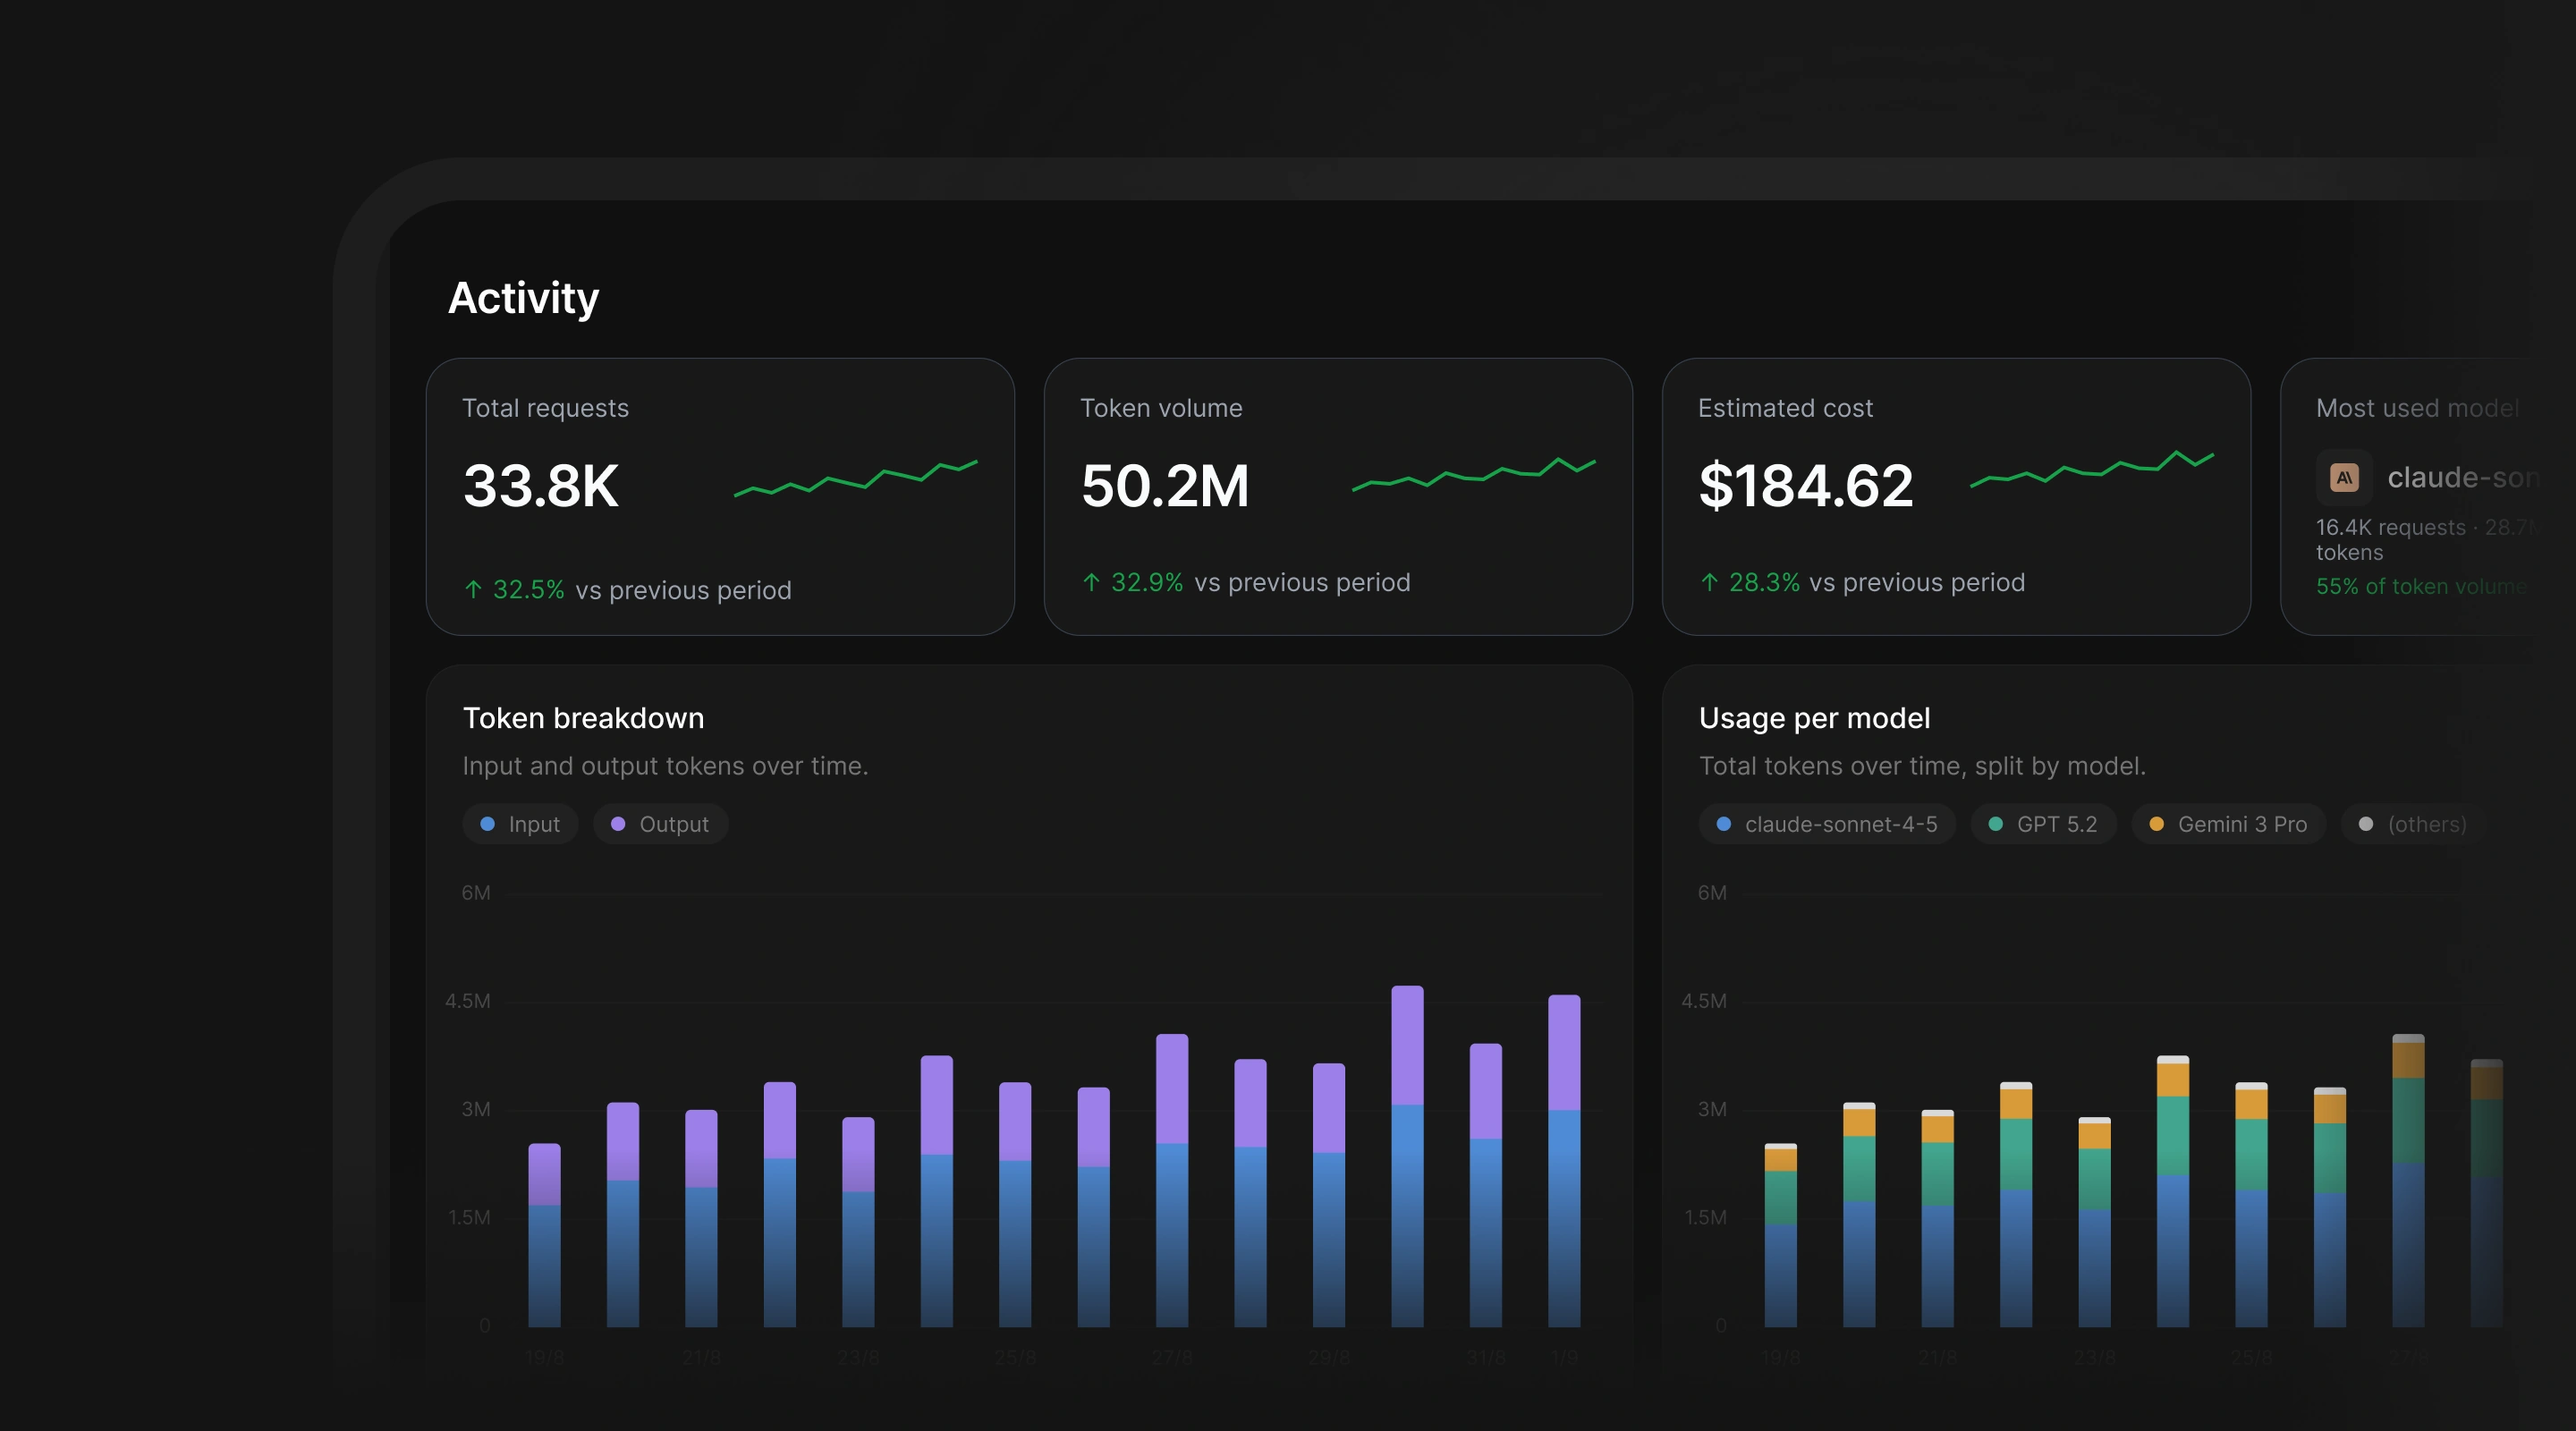
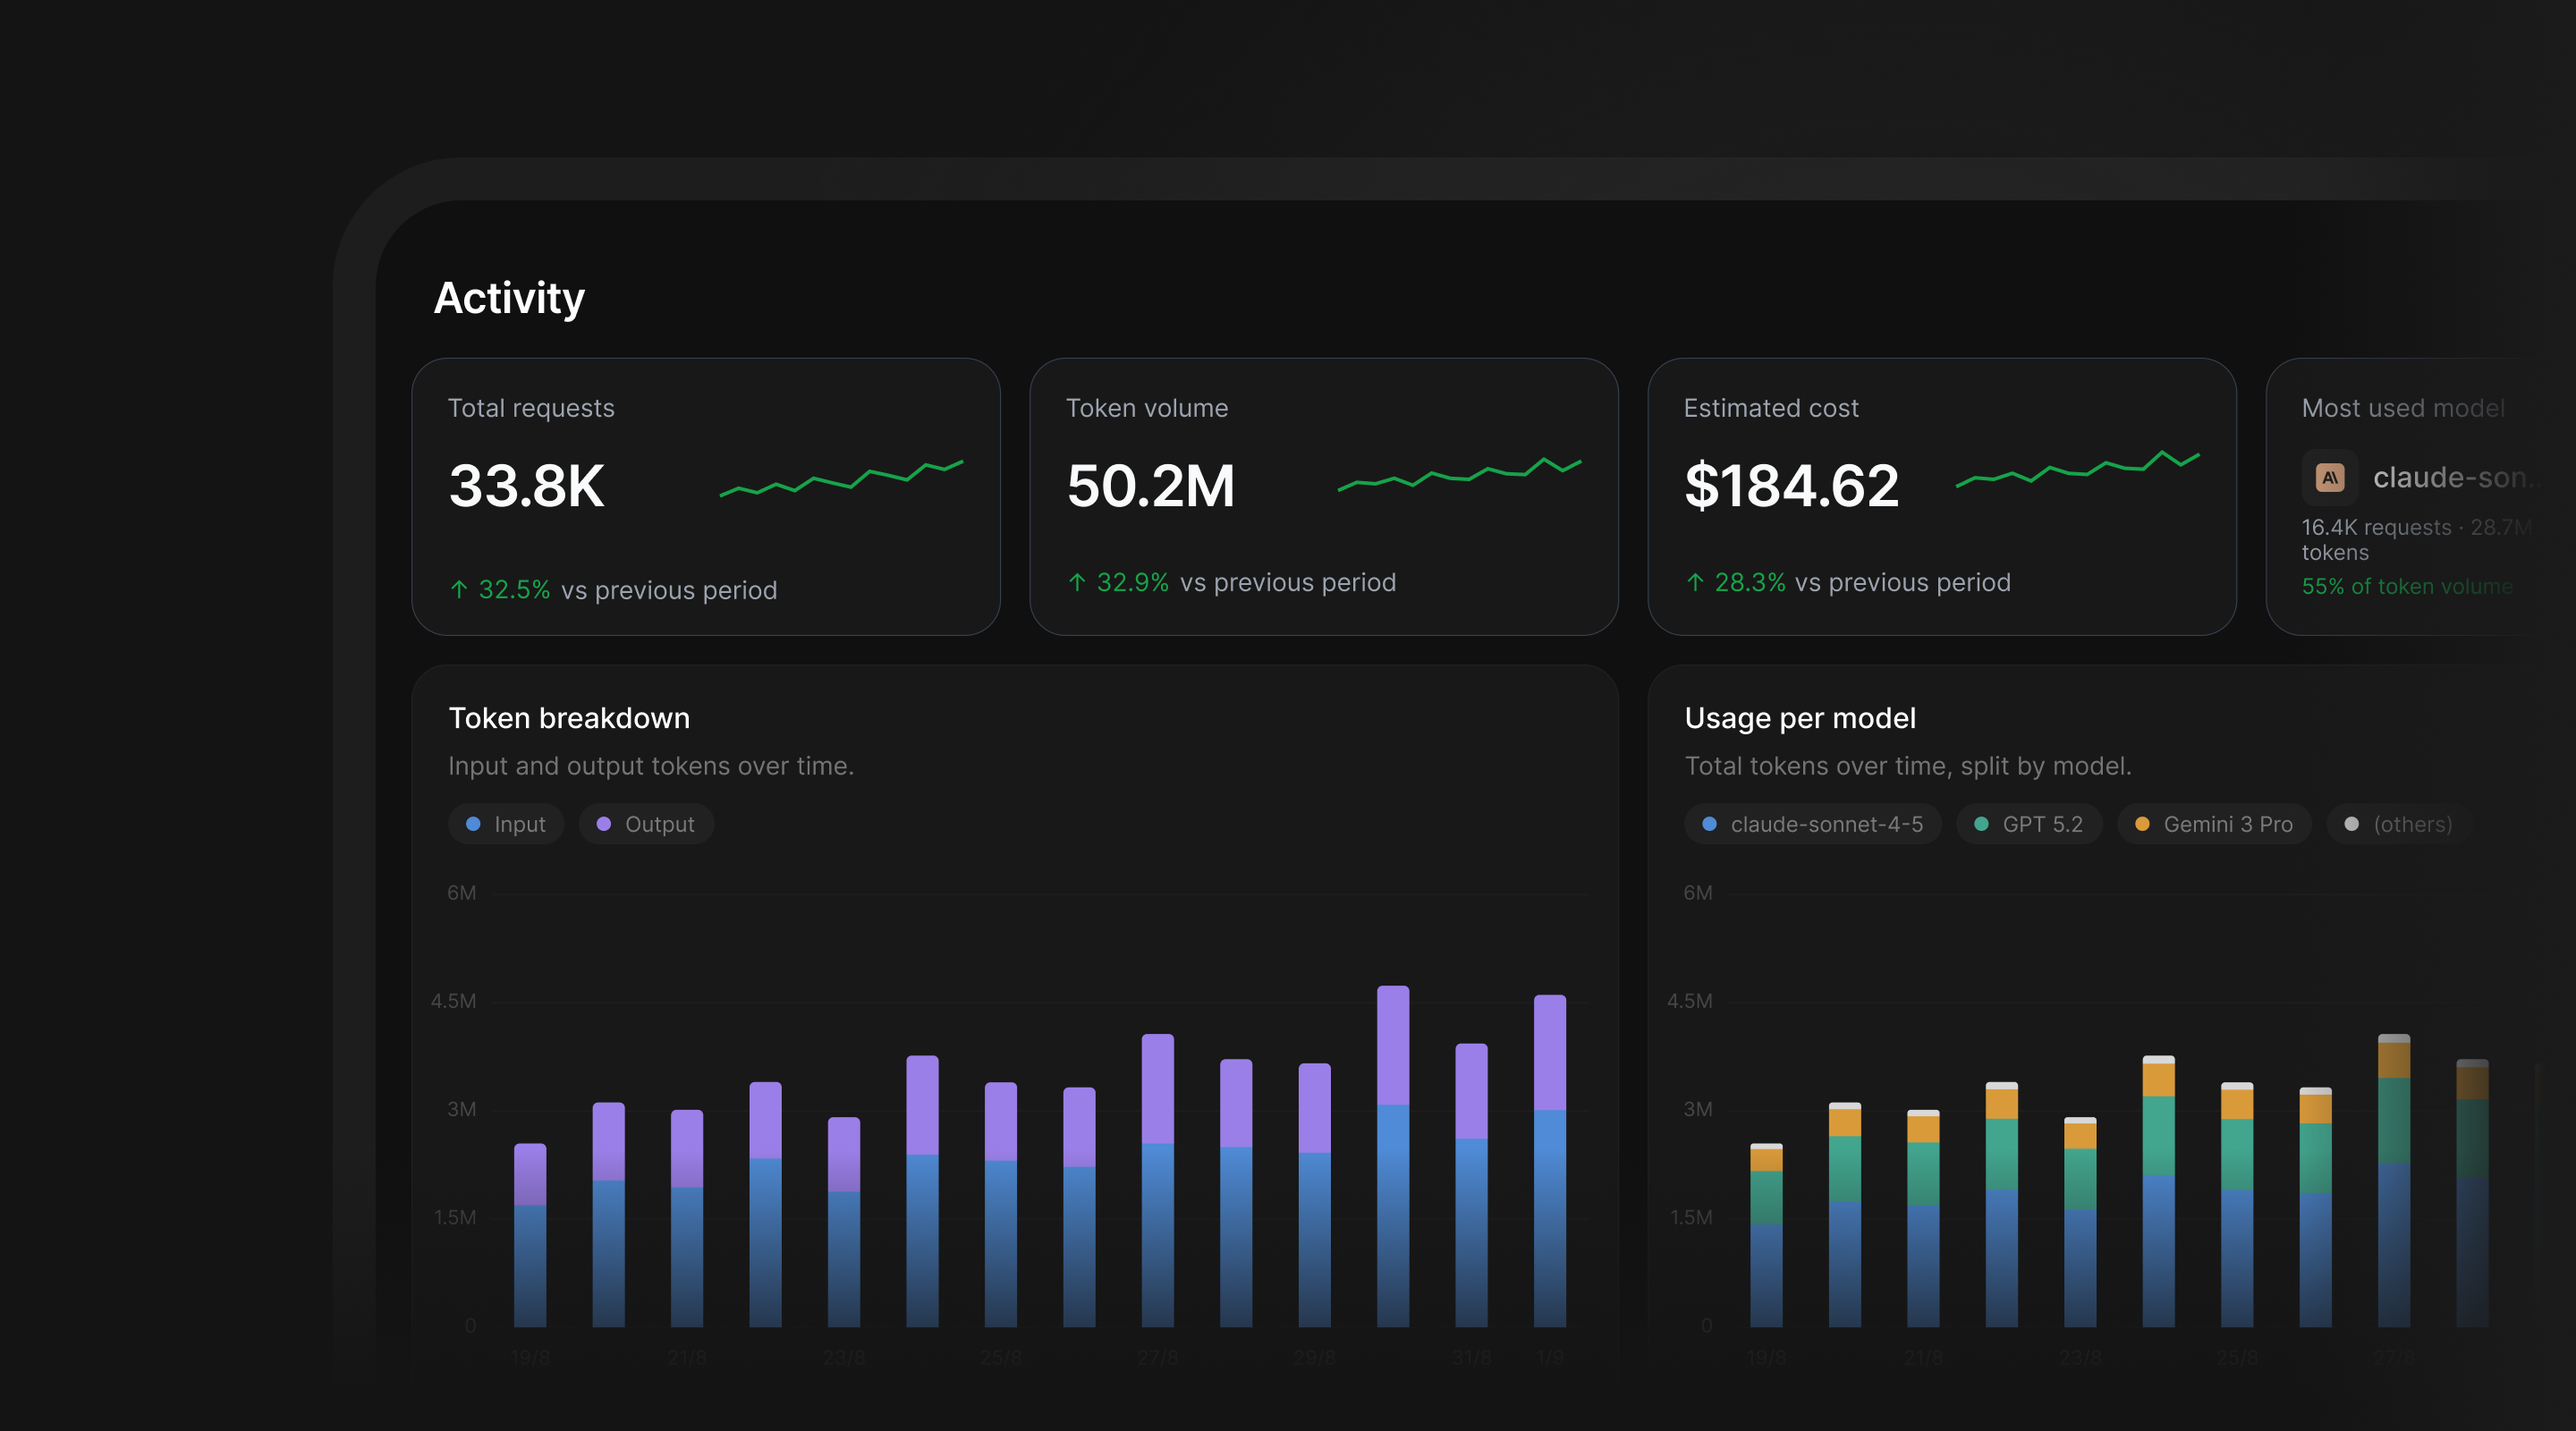
fix(docs): polish Gateway page visuals

diff --git a/docs/components/button.tsx b/docs/components/button.tsx
@@ -7,9 +7,16 @@ interface ButtonProps {
   text: string;
   size?: "lg";
   variant?: "primary" | "secondary" | "tertiary";
+  external?: boolean;
 }
 
-export function Button({ href, text, size = "lg", variant = "primary" }: ButtonProps) {
+export function Button({
+  href,
+  text,
+  size = "lg",
+  variant = "primary",
+  external = false,
+}: ButtonProps) {
   const sizeClasses = size === "lg" ? "openui-button-base-large" : "";
   const variantClasses = {
     primary: "openui-button-base-primary",
@@ -20,6 +27,8 @@ export function Button({ href, text, size = "lg", variant = "primary" }: ButtonP
   return (
     <Link
       href={href}
+      target={external ? "_blank" : undefined}
+      rel={external ? "noopener noreferrer" : undefined}
       className={`openui-button-base no-underline ${sizeClasses} ${variantClasses} ${
         variant === "tertiary" ? styles.tertiary : ""
       }`}

diff --git a/docs/app/(home)/cloud/gateway/WhySection.tsx b/docs/app/(home)/cloud/gateway/WhySection.tsx
@@ -1,3 +1,4 @@
+import { Button } from "@/components/button";
 import { production } from "@/lib/benchmark-data";
 import { FailureBreakdown } from "./FailureBreakdown";
 import styles from "./sections.module.css";
@@ -26,12 +27,8 @@ export function WhySection() {
           and repairs what remains before users see it.
         </p>
         <div className={styles.linkRow}>
-          <a className={styles.link} href="/benchmarks?view=formats">
-            Compare formats →
-          </a>
-          <a className={styles.link} href="/benchmarks">
-            Compare models →
-          </a>
+          <Button href="/benchmarks?view=formats" text="Compare formats" variant="tertiary" />
+          <Button href="/benchmarks" text="Compare models" variant="tertiary" />
         </div>
       </div>
     </section>

diff --git a/docs/app/(home)/cloud/gateway/sections.module.css b/docs/app/(home)/cloud/gateway/sections.module.css
@@ -59,19 +59,6 @@
   margin-top: 1.5rem;
 }
 
-.link {
-  color: var(--openui-text-neutral-primary);
-  font-family: var(--home-font-text);
-  font-size: var(--home-body-size);
-  line-height: var(--home-body-leading);
-  text-decoration: none;
-  border-bottom: 1px solid currentColor;
-}
-
-.link:hover {
-  opacity: 0.7;
-}
-
 .problemLockup .heading {
   max-width: 501px;
 }
@@ -88,15 +75,6 @@
   margin-top: 18px;
 }
 
-.problemConclusion .link {
-  padding-bottom: 7px;
-  border-bottom: 0;
-}
-
-.problemConclusion .link:hover {
-  text-decoration: underline;
-}
-
 .diagram {
   margin-top: 72px;
 }
@@ -108,6 +86,7 @@
   max-width: 1120px;
   margin-inline: auto;
   aspect-ratio: 1120 / 440;
+  overflow: hidden;
   border: 0;
   border-radius: 24px;
   background: transparent;

diff --git a/docs/app/(home)/cloud/EnterpriseSection.tsx b/docs/app/(home)/cloud/EnterpriseSection.tsx
@@ -1,4 +1,4 @@
-import { ExternalTextLink } from "../components/ExternalTextLink/ExternalTextLink";
+import { Button } from "@/components/button";
 import {
   FeatureGridSection,
   type GridFeature,
@@ -62,9 +62,7 @@ export function EnterpriseSection({
         <h2 id={titleId} className={styles.title}>
           {title}
         </h2>
-        <ExternalTextLink className={styles.link} href="https://trust.thesys.dev/">
-          {linkLabel}
-        </ExternalTextLink>
+        <Button href="https://trust.thesys.dev/" text={linkLabel} variant="tertiary" external />
       </div>
       <FeatureGridSection
         features={features}

diff --git a/docs/app/(home)/components/ExternalTextLink/ExternalTextLink.module.css b/docs/app/(home)/components/ExternalTextLink/ExternalTextLink.module.css
@@ -6,7 +6,7 @@
   color: var(--openui-text-neutral-primary);
   font-weight: inherit;
   text-decoration: none;
-  transition: background-color 160ms ease;
+  transition: opacity 160ms ease;
 }
 
 .label {
@@ -22,7 +22,7 @@
 }
 
 .link:hover {
-  background-color: color-mix(in srgb, currentColor 6%, transparent);
+  opacity: 0.7;
 }
 
 .link:focus-visible {

diff --git a/docs/app/(home)/cloud/EnterpriseSection.module.css b/docs/app/(home)/cloud/EnterpriseSection.module.css
@@ -27,12 +27,6 @@
   text-wrap: balance;
 }
 
-.link {
-  font-family: var(--home-font-display);
-  font-size: var(--home-body-size);
-  line-height: 1.3;
-}
-
 @media (max-width: 767px) {
   .section {
     padding-block: 96px;

diff --git a/docs/app/(home)/cloud/gateway/page.module.css b/docs/app/(home)/cloud/gateway/page.module.css
@@ -65,7 +65,7 @@
   overflow: hidden;
   width: 100%;
   aspect-ratio: 1280 / 520;
-  border: 1px solid var(--home-hairline);
+  border: 0;
   border-radius: 24px;
   background: var(--home-color-surface-soft);
 }
